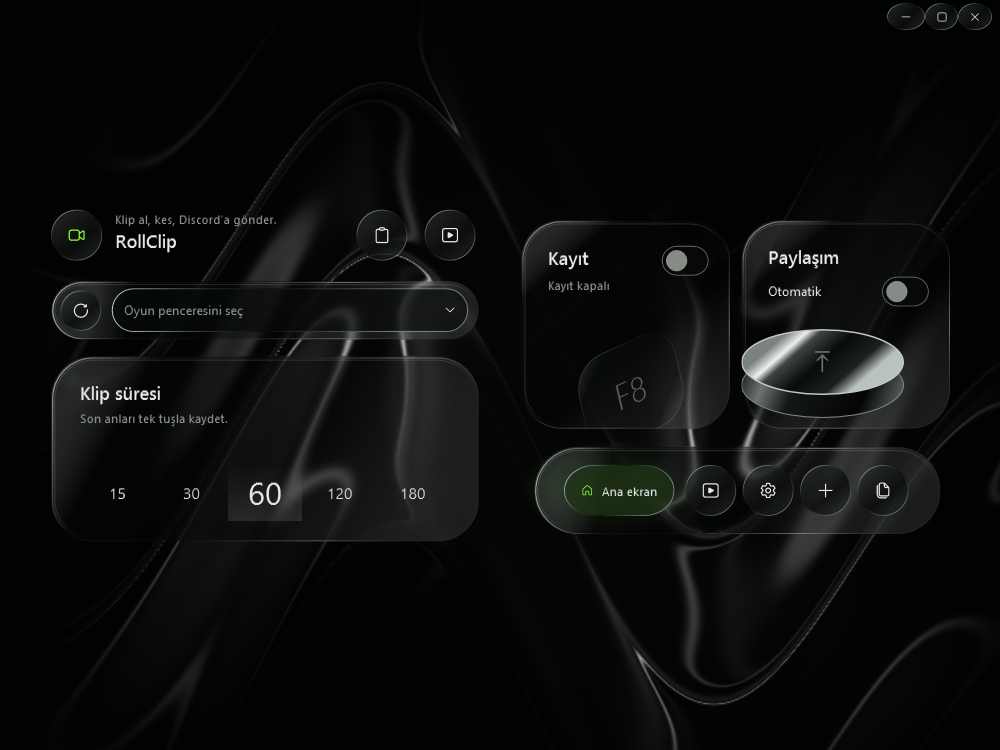
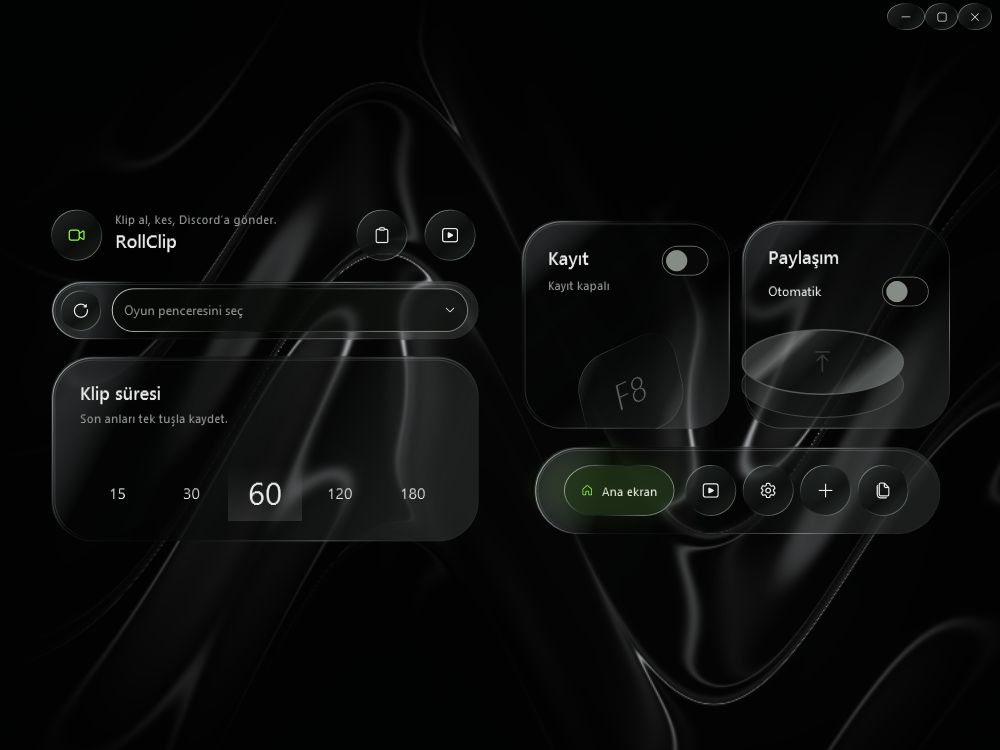
README: v0.4.2 indirme bağlantılarını ve ana ekranı yenile

Changed region(s): [[0.744, 0.4293, 0.837, 0.552], [0.837, 0.46, 0.899, 0.5213]]

diff --git a/README.md b/README.md
@@ -4,14 +4,14 @@
 
 ## İndir
 
-- **[Windows yükleyicisi](https://github.com/wozeky/RollClip/releases/download/v0.4.1/RollClip-Setup-win-x64.exe)** · Türkçe/İngilizce, kullanıcı hesabına kurulum ve Başlat menüsü kısayolu.
-- **[Taşınabilir Windows ZIP](https://github.com/wozeky/RollClip/releases/download/v0.4.1/RollClip-win-x64.zip)** · ZIP’in tamamını çıkarıp `RollClip.exe` dosyasını çalıştırın.
+- **[Windows yükleyicisi](https://github.com/wozeky/RollClip/releases/download/v0.4.2/RollClip-Setup-win-x64.exe)** · Türkçe/İngilizce, kullanıcı hesabına kurulum ve Başlat menüsü kısayolu.
+- **[Taşınabilir Windows ZIP](https://github.com/wozeky/RollClip/releases/download/v0.4.2/RollClip-win-x64.zip)** · ZIP’in tamamını çıkarıp `RollClip.exe` dosyasını çalıştırın.
 
-İki paket de bu ön sürümde imzasızdır. SHA-256 dosyaları [Release sayfasında](https://github.com/wozeky/RollClip/releases/tag/v0.4.1) bulunur. **Ayarlar → Dil** üzerinden Türkçe ve İngilizce temel arayüz arasında geçebilirsiniz. Dili kaydedip uygulamayı yeniden açın. Bazı hata ve tanılama metinleri Türkçe kalır.
+İki paket de bu ön sürümde imzasızdır. SHA-256 dosyaları [Release sayfasında](https://github.com/wozeky/RollClip/releases/tag/v0.4.2) bulunur. **Ayarlar → Dil** üzerinden Türkçe ve İngilizce temel arayüz arasında geçebilirsiniz. Dili kaydedip uygulamayı yeniden açın. Bazı hata ve tanılama metinleri Türkçe kalır.
 
 ## Ekran görüntüleri
 
-Görüntüler, Windows üzerinde çalışan RollClip v0.4.1’den alınmıştır.
+Görüntüler, Windows üzerinde çalışan RollClip uygulamasından alınmıştır.
 
 ![RollClip ana ekranı](docs/screenshots/home.png)
 
@@ -55,6 +55,10 @@ Ana ekrandan oyun penceresini seçin. Kalite, süre, ses, etiket, yöntem ve oto
 - **DXGI** ekran 0’ın tamamını kaydeder. Başlamadan önce onay ister ve otomatik başlatma için kullanılmaz.
 - NVENC, AMF ve Intel QSV denenir. Donanım kodlama açılmazsa yazılımsal Media Foundation kullanılır. Video SDR olarak kaydedilir.
 - Klip diske yazılınca isteğe bağlı Windows bildirimi ve ses çalar. Windows bildirim ayarları ve Rahatsız Etmeyin modu bildirimin görünmesini etkileyebilir.
+
+## v0.4.2 ile gelenler
+
+Ana ekrandaki Paylaşım simgesinin metalik yüzeyi yumuşatıldı.
 
 ## v0.4.1 ile gelenler
 
